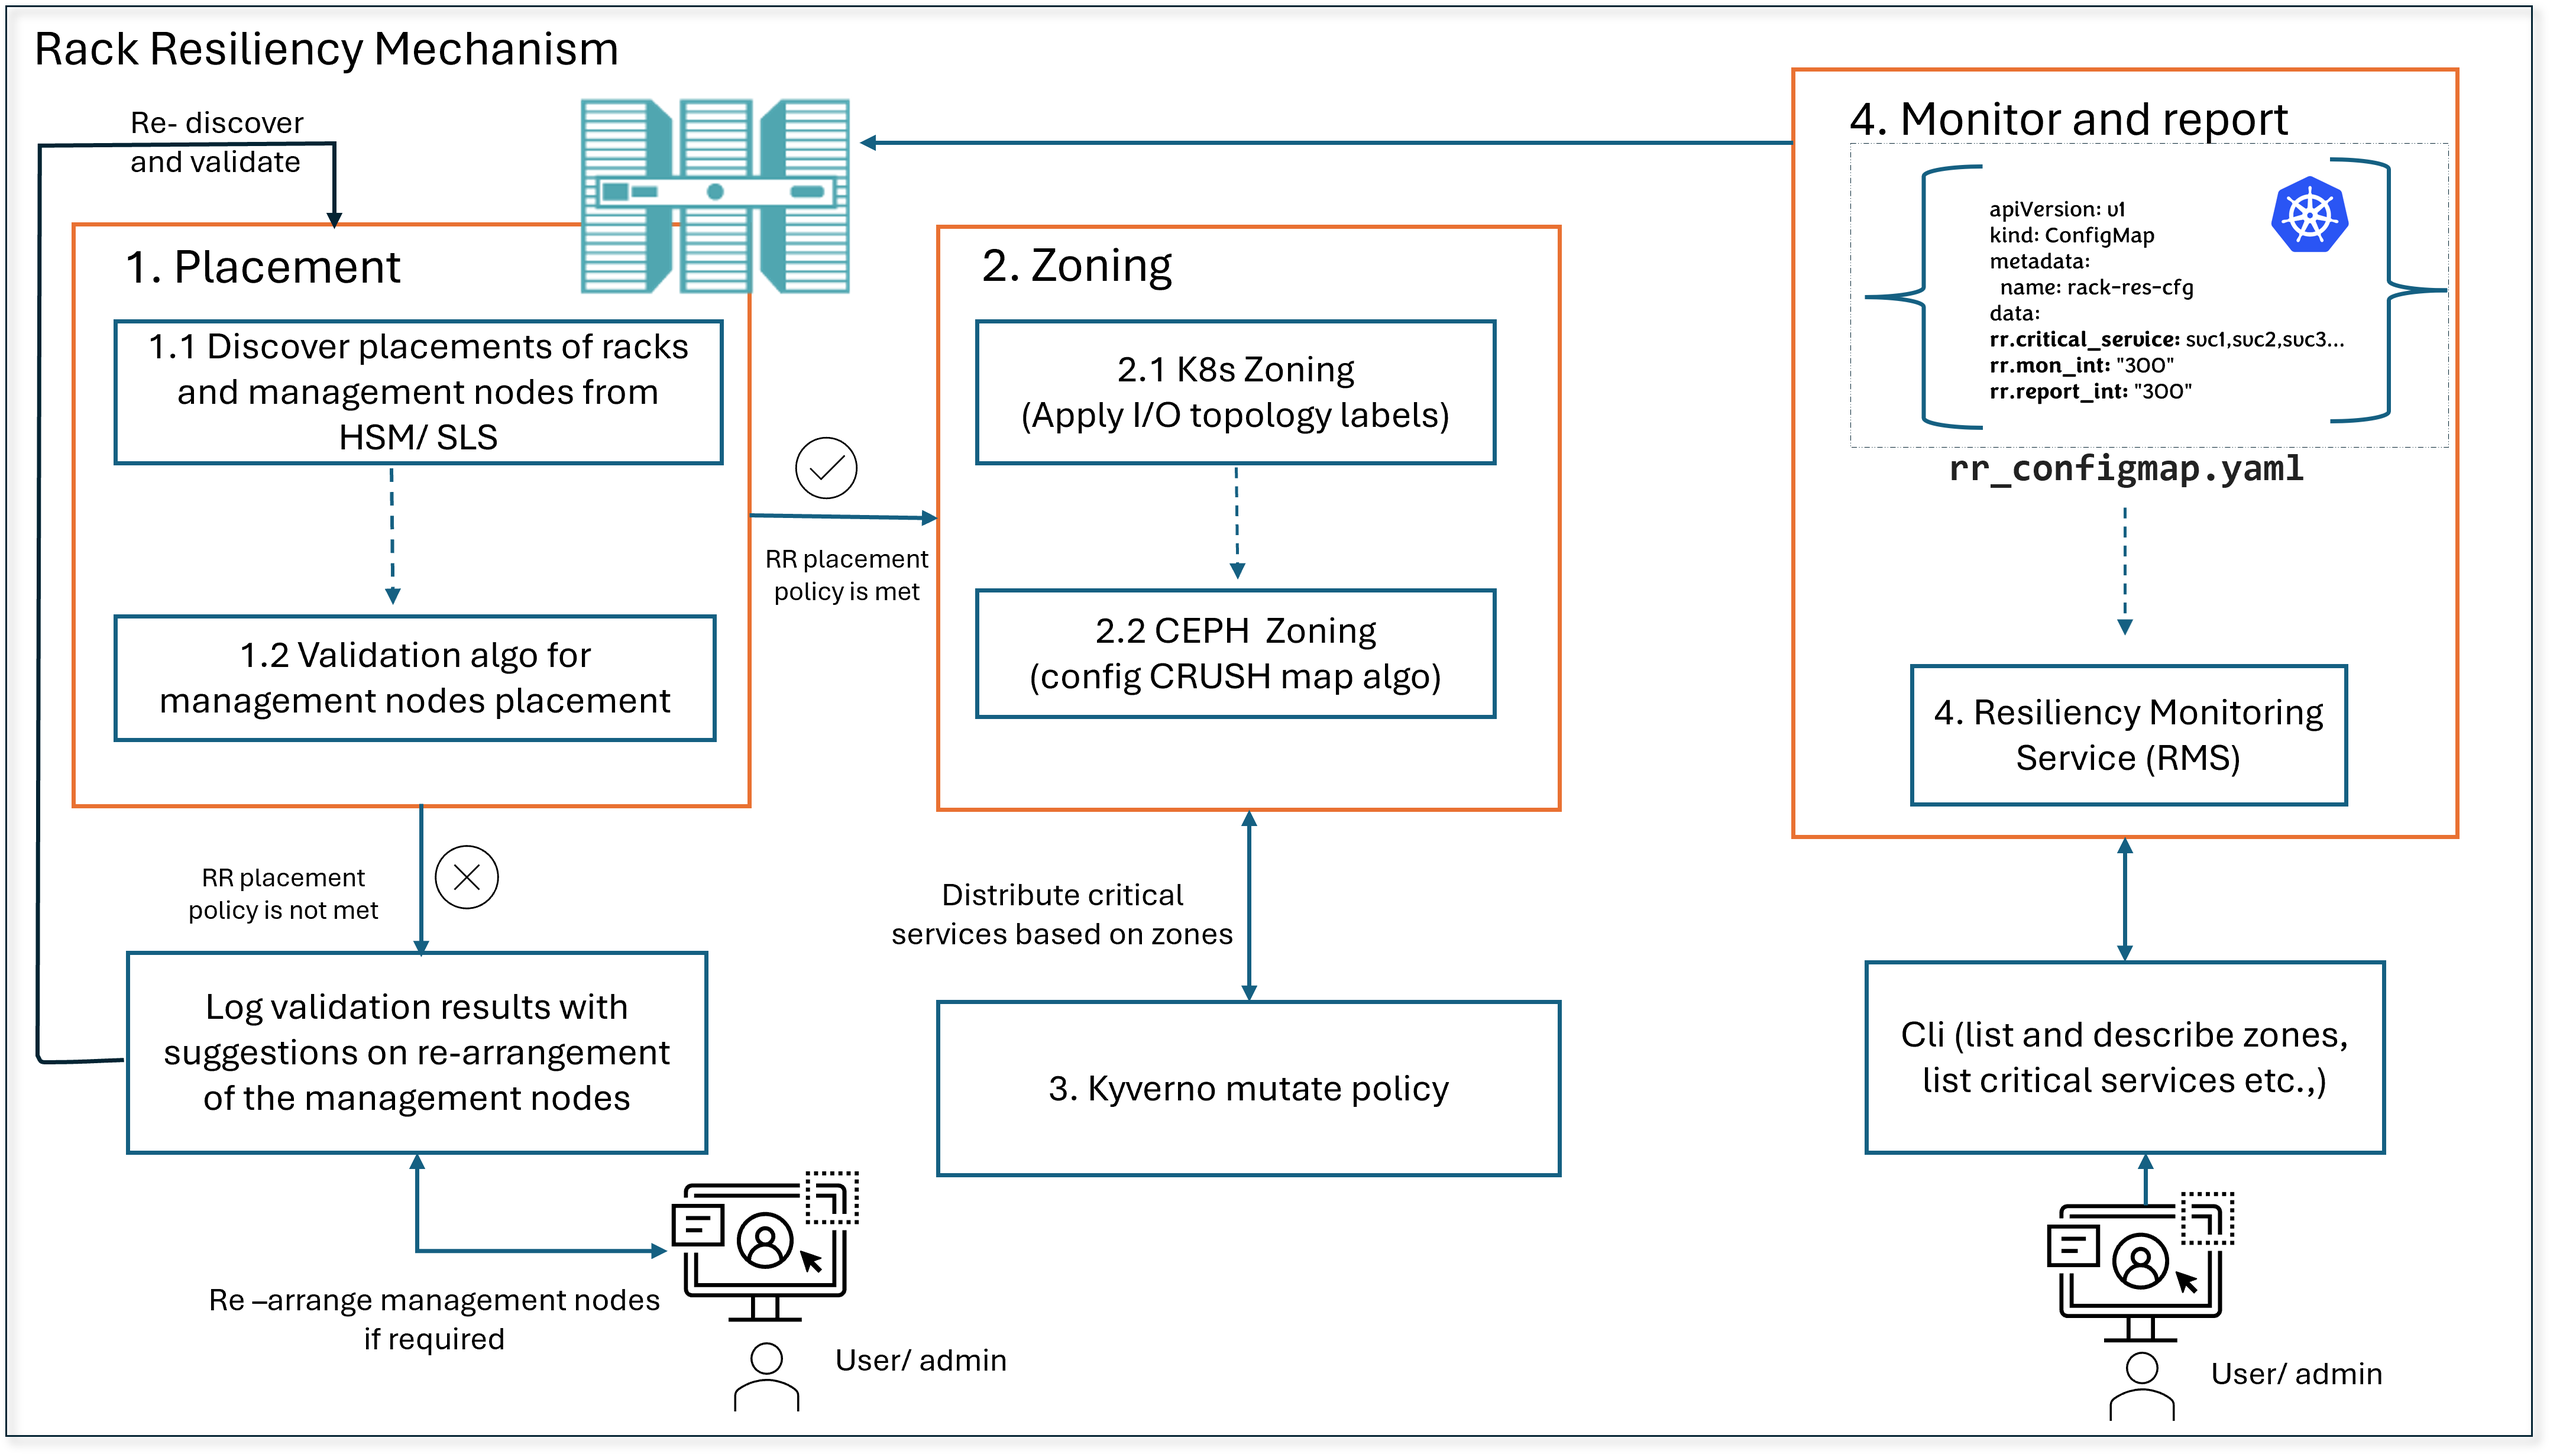
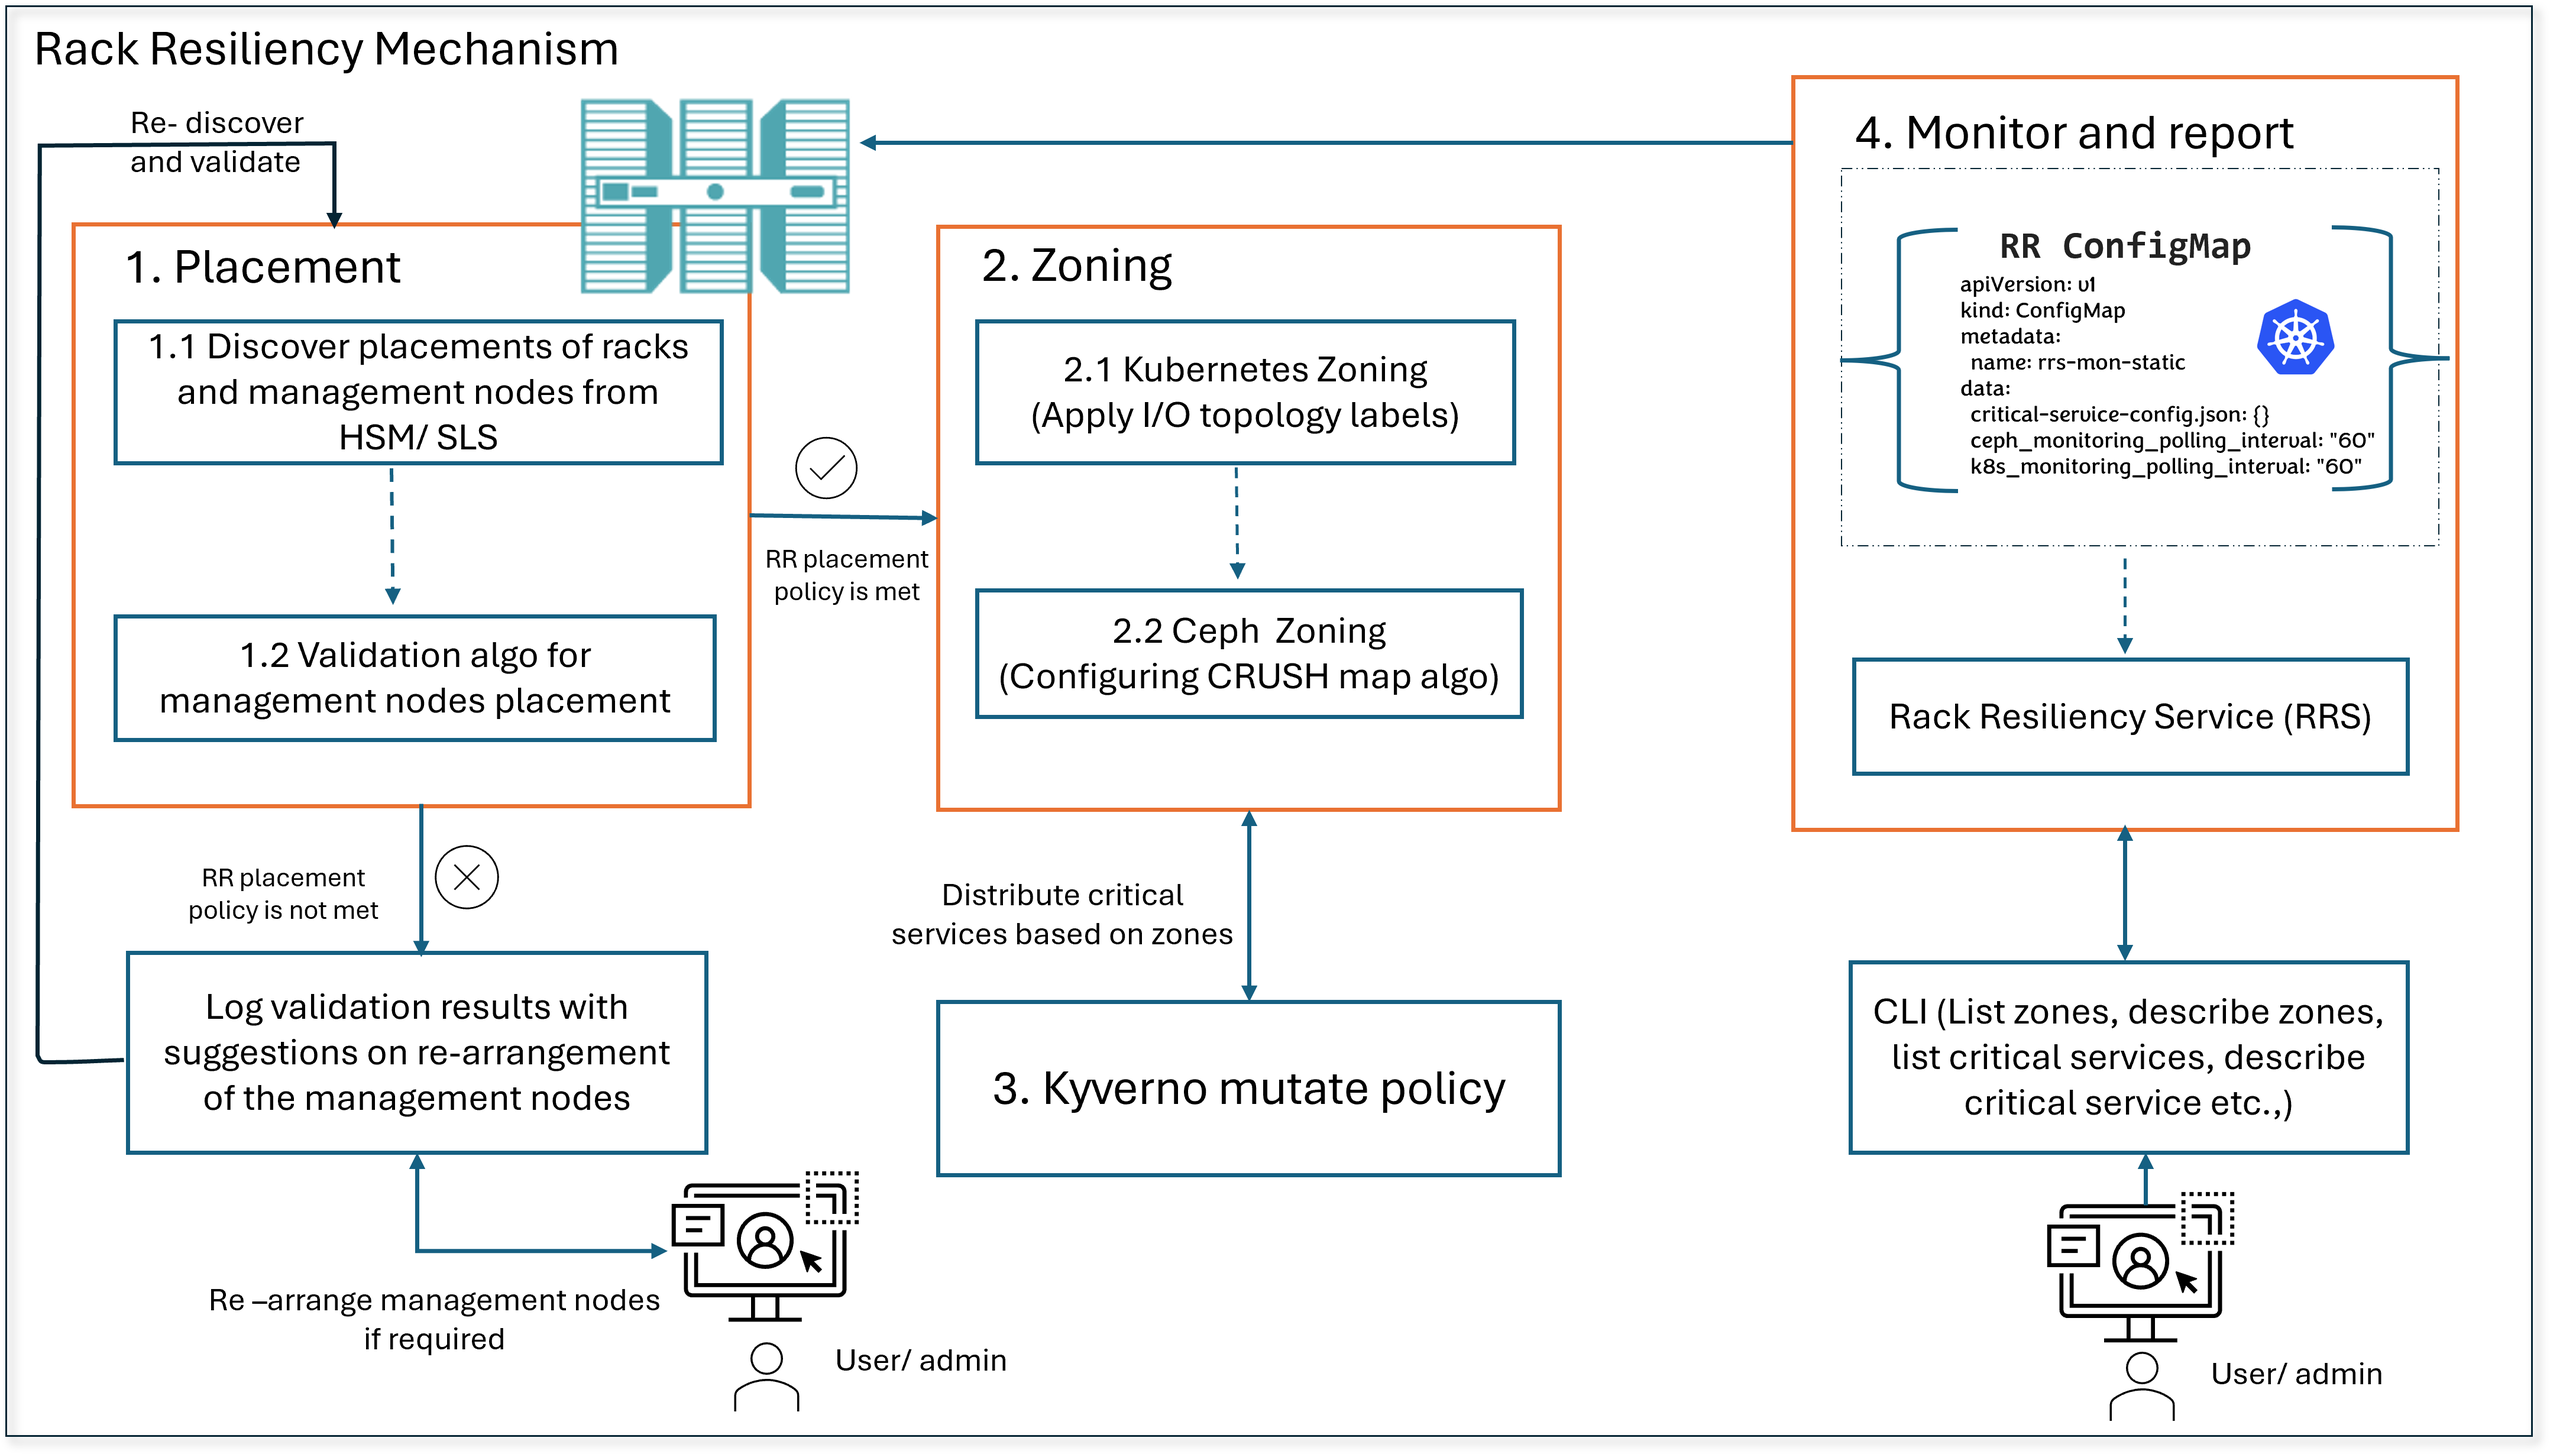
- Updated RR Architecture diagram. - Updated prepare_site_init.md

diff --git a/install/prepare_site_init.md b/install/prepare_site_init.md
@@ -484,6 +484,8 @@ This section can be skipped if Rack Resiliency feature is not required.
     ```
 **`NOTE`**
 
+- If site specific identities are needed for zones, zones prefixes for Kubernetes and Ceph can be configured.
+- Adding zone prefixes is optional. No prefixes are added by default.
 - Valid prefix value:
     - Prefix can be limited to 1-50 characters long.
     - Prefix unless empty, must begin and end with an alphanumeric character ([a-z0-9A-Z]).
